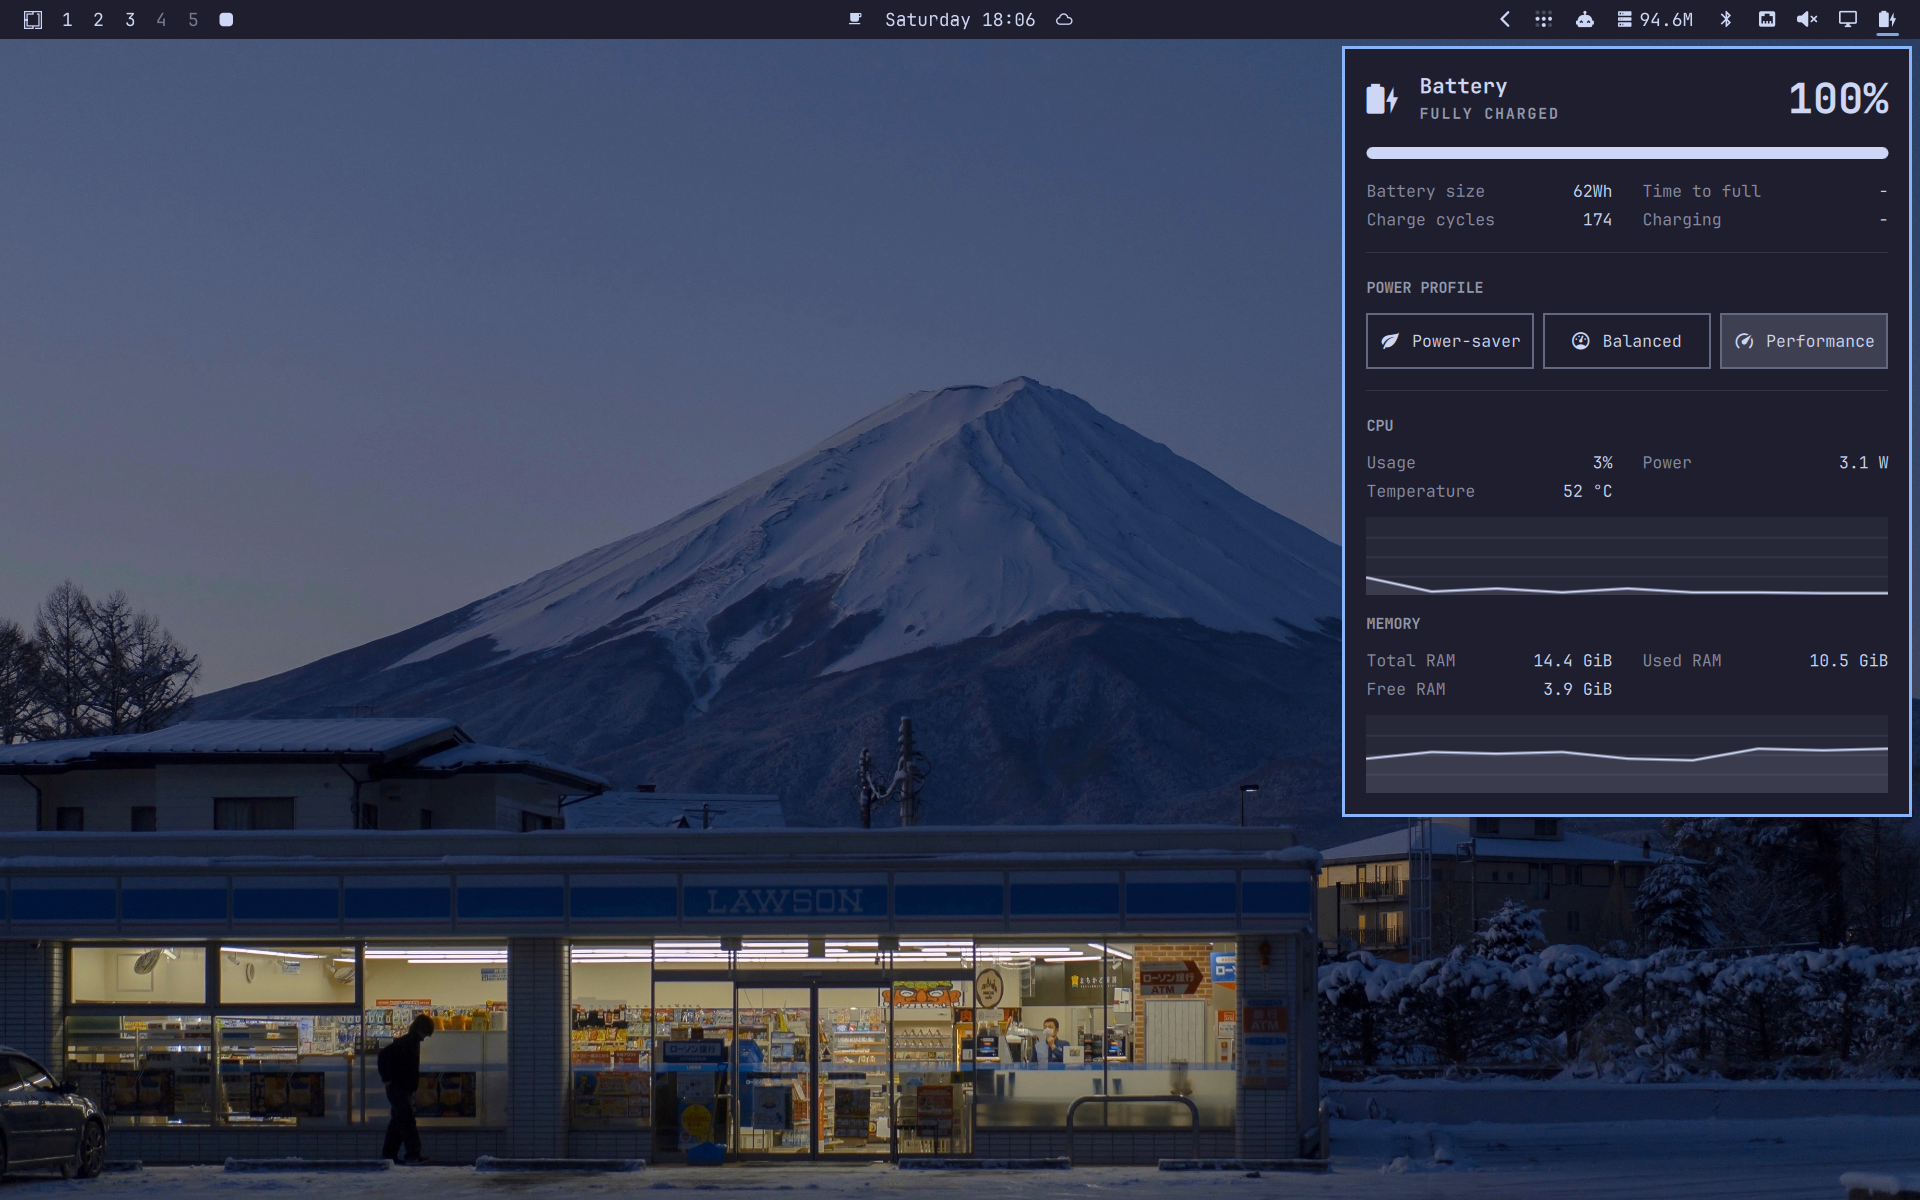
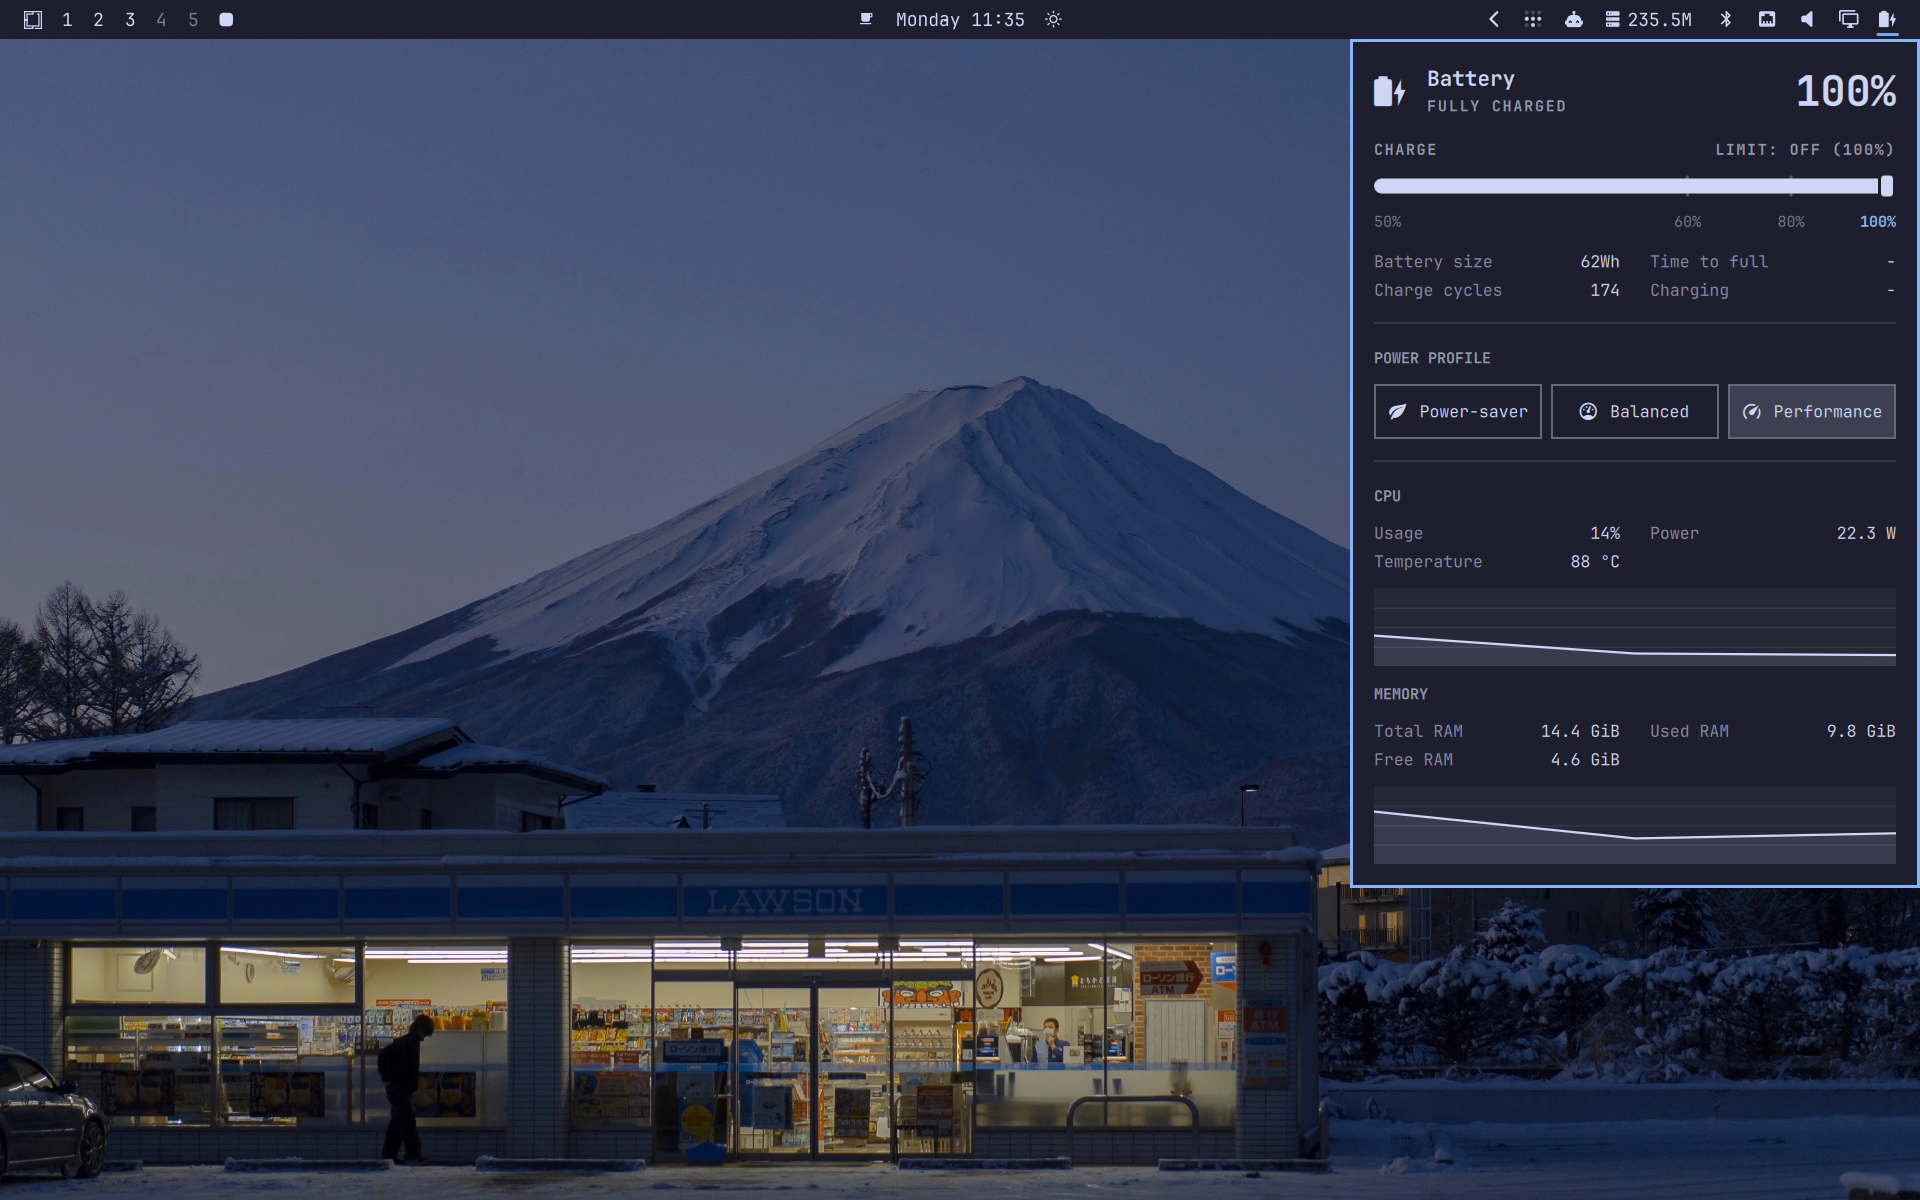
feat(battery): integrate interactive charging limiter slider into battery progress bar

diff --git a/Panel.qml b/Panel.qml
@@ -9,7 +9,7 @@ import "Model.js" as Model
 Panel {
   id: root
   moduleName: "omarchy.power"
-  ipcTarget: "omarchy.power"
+  ipcTarget: "kinara.power"
 
   manageIpc: false
   property var batteryInfo: ({})
@@ -22,6 +22,9 @@ Panel {
   property string activeProfile: ""
   property int profileIndex: 0
   property bool cursorActive: false
+  property int chargeLimit: 100
+  property bool chargeLimitSupported: true
+  property int draggingLimit: -1
   readonly property bool showPercentage: setting("showPercentage", false) === true
 
   readonly property real openPanelIndicatorWidth: showPercentage && !button.vertical ? button.glyphPaintedWidth : 0
@@ -149,22 +152,22 @@ Panel {
 
     if (!batteryProc.running) {
       batteryProc.buffer = ""
-      batteryProc.lines = 0
+      batteryProc.bytesRead = 0
       batteryProc.running = true
     }
     if (!profilesProc.running) {
       profilesProc.buffer = ""
-      profilesProc.lines = 0
+      profilesProc.bytesRead = 0
       profilesProc.running = true
     }
     if (!systemProc.running) {
       systemProc.buffer = ""
-      systemProc.lines = 0
+      systemProc.bytesRead = 0
       systemProc.running = true
     }
     if (!hardwareProc.running) {
       hardwareProc.buffer = ""
-      hardwareProc.lines = 0
+      hardwareProc.bytesRead = 0
       hardwareProc.running = true
     }
     pollWatchdog.restart()
@@ -209,6 +212,21 @@ Panel {
     hardware = next
     cpuHistory = appendHistory(cpuHistory, String(next.cpu_percent || "0").replace("%", ""))
     memoryHistory = appendHistory(memoryHistory, next.ram_percent)
+    if (next.charge_limit !== undefined) {
+      root.chargeLimit = parseInt(next.charge_limit) || 100
+    }
+    if (next.charge_limit_supported !== undefined) {
+      root.chargeLimitSupported = (next.charge_limit_supported === "true")
+    }
+  }
+
+  function setChargeLimit(percent) {
+    var val = Math.max(50, Math.min(100, Math.round(percent)))
+    root.chargeLimit = val
+    if (actionProc.running) return
+    actionProc.command = ["/usr/bin/python3", "-I", root.hardwareScript, "--set-limit", String(val)]
+    actionProc.running = true
+    actionWatchdog.restart()
   }
 
   function setProfile(profile) {
@@ -224,7 +242,7 @@ Panel {
   }
 
   IpcHandler {
-    target: "omarchy.power"
+    target: root.ipcTarget
 
     function open() { root.open() }
     function close() { root.close() }
@@ -537,35 +555,198 @@ Panel {
           }
         }
 
-        Item {
+        Column {
           width: parent.width
-          implicitHeight: Style.space(8)
+          spacing: Style.space(6)
 
-          Rectangle {
-            id: barTrack
-            anchors.fill: parent
-            radius: height / 2
-            color: Qt.rgba(root.bar.foreground.r, root.bar.foreground.g, root.bar.foreground.b, 0.12)
+          Item {
+            width: parent.width
+            implicitHeight: Math.max(chargeLeftLabel.implicitHeight, chargeRightLabel.implicitHeight)
+            visible: root.chargeLimitSupported
+
+            Text {
+              id: chargeLeftLabel
+              anchors.left: parent.left
+              text: "CHARGE"
+              color: Qt.darker(root.bar.foreground, 1.4)
+              font.family: root.bar.fontFamily
+              font.pixelSize: Style.font.caption
+              font.bold: true
+              font.letterSpacing: 1.1
+            }
+
+            Text {
+              id: chargeRightLabel
+              anchors.right: parent.right
+              text: root.draggingLimit >= 0
+                ? (root.draggingLimit >= 100 ? "SET: 100% (OFF)" : "SET LIMIT: " + root.draggingLimit + "%")
+                : (root.chargeLimit < 100 ? "LIMIT: " + root.chargeLimit + "%" : "LIMIT: OFF (100%)")
+              color: (root.draggingLimit >= 0 || root.chargeLimit < 100) ? Color.accent : Qt.darker(root.bar.foreground, 1.4)
+              font.family: root.bar.fontFamily
+              font.pixelSize: Style.font.caption
+              font.bold: true
+              font.letterSpacing: 1.1
+            }
           }
 
-          Rectangle {
-            id: barFill
-            anchors.left: barTrack.left
-            anchors.verticalCenter: barTrack.verticalCenter
-            height: barTrack.height
-            radius: barTrack.radius
-            color: root.batteryFillColor
-            width: Math.max(barTrack.height, barTrack.width * root.batteryFraction)
+          Item {
+            id: sliderContainer
+            width: parent.width
+            implicitHeight: Style.space(22)
 
-            Behavior on width { NumberAnimation { duration: 320; easing.type: Easing.OutCubic } }
-            Behavior on color { ColorAnimation { duration: 220 } }
+            Rectangle {
+              id: barTrack
+              anchors.left: parent.left
+              anchors.right: parent.right
+              anchors.verticalCenter: parent.verticalCenter
+              height: Style.space(10)
+              radius: height / 2
+              color: Qt.rgba(root.bar.foreground.r, root.bar.foreground.g, root.bar.foreground.b, 0.12)
+            }
 
-            SequentialAnimation on opacity {
-              running: root.charging && !root.fullyCharged && root.opened
-              loops: Animation.Infinite
-              alwaysRunToEnd: true
-              NumberAnimation { from: 1.0; to: 0.55; duration: 950; easing.type: Easing.InOutSine }
-              NumberAnimation { from: 0.55; to: 1.0; duration: 950; easing.type: Easing.InOutSine }
+            Rectangle {
+              id: barFill
+              anchors.left: barTrack.left
+              anchors.verticalCenter: barTrack.verticalCenter
+              height: barTrack.height
+              radius: barTrack.radius
+              color: root.batteryFillColor
+              width: Math.max(barTrack.height, Math.min(barTrack.width, barTrack.width * root.batteryFraction))
+
+              Behavior on width { NumberAnimation { duration: 320; easing.type: Easing.OutCubic } }
+              Behavior on color { ColorAnimation { duration: 220 } }
+
+              SequentialAnimation on opacity {
+                running: root.charging && !root.fullyCharged && root.opened
+                loops: Animation.Infinite
+                alwaysRunToEnd: true
+                NumberAnimation { from: 1.0; to: 0.55; duration: 950; easing.type: Easing.InOutSine }
+                NumberAnimation { from: 0.55; to: 1.0; duration: 950; easing.type: Easing.InOutSine }
+              }
+            }
+
+            Repeater {
+              model: [60, 80]
+              Rectangle {
+                required property int modelData
+                width: Math.max(1, Style.space(1.5))
+                height: barTrack.height + Style.space(4)
+                radius: 1
+                color: Qt.rgba(root.bar.foreground.r, root.bar.foreground.g, root.bar.foreground.b, 0.3)
+                anchors.verticalCenter: barTrack.verticalCenter
+                x: Math.round(barTrack.width * (modelData / 100.0) - width / 2)
+              }
+            }
+
+            Rectangle {
+              id: limiterKnob
+              visible: root.chargeLimitSupported
+              readonly property real effectivePercent: root.draggingLimit >= 0 ? root.draggingLimit : root.chargeLimit
+              readonly property real posFraction: Math.max(0.5, Math.min(1.0, effectivePercent / 100.0))
+              width: Style.space(12)
+              height: Style.space(18)
+              radius: Style.space(4)
+              color: root.bar.foreground
+              border.color: root.bar.background
+              border.width: Math.max(1, Style.space(1.5))
+              anchors.verticalCenter: barTrack.verticalCenter
+              x: Math.max(0, Math.min(barTrack.width - width, barTrack.width * posFraction - width / 2))
+              scale: sliderMouse.containsMouse || root.draggingLimit >= 0 ? 1.15 : 1.0
+
+              Behavior on x {
+                enabled: root.draggingLimit < 0
+                NumberAnimation { duration: 160; easing.type: Easing.OutCubic }
+              }
+              Behavior on scale {
+                NumberAnimation { duration: 110; easing.type: Easing.OutCubic }
+              }
+            }
+
+            MouseArea {
+              id: sliderMouse
+              anchors.fill: parent
+              hoverEnabled: true
+              cursorShape: Qt.PointingHandCursor
+              acceptedButtons: Qt.LeftButton | Qt.RightButton
+
+              function calculatePercent(mouseX) {
+                var frac = Math.max(0, Math.min(1, mouseX / barTrack.width))
+                var raw = Math.round(frac * 100)
+                if (Math.abs(raw - 60) <= 3) raw = 60
+                else if (Math.abs(raw - 80) <= 3) raw = 80
+                else if (raw >= 97) raw = 100
+                return Math.max(50, Math.min(100, raw))
+              }
+
+              onPressed: function(mouse) {
+                if (mouse.button === Qt.RightButton) {
+                  var nextLimit = root.chargeLimit < 100 ? 100 : 80
+                  root.setChargeLimit(nextLimit)
+                  return
+                }
+                root.draggingLimit = calculatePercent(mouse.x)
+              }
+
+              onPositionChanged: function(mouse) {
+                if (root.draggingLimit >= 0) {
+                  root.draggingLimit = calculatePercent(mouse.x)
+                }
+              }
+
+              onReleased: function(mouse) {
+                if (mouse.button !== Qt.LeftButton) return
+                if (root.draggingLimit >= 0) {
+                  root.setChargeLimit(root.draggingLimit)
+                  root.draggingLimit = -1
+                }
+              }
+
+              onWheel: function(wheel) {
+                var delta = wheel.angleDelta.y > 0 ? 5 : -5
+                var next = Math.max(50, Math.min(100, root.chargeLimit + delta))
+                root.setChargeLimit(next)
+              }
+            }
+          }
+
+          Item {
+            width: parent.width
+            implicitHeight: Style.font.caption + Style.space(2)
+            visible: root.chargeLimitSupported
+
+            Text {
+              anchors.left: parent.left
+              text: "50%"
+              color: Qt.darker(root.bar.foreground, 1.8)
+              font.family: root.bar.fontFamily
+              font.pixelSize: Style.font.caption
+            }
+
+            Text {
+              x: Math.round(parent.width * 0.6 - width / 2)
+              text: "60%"
+              color: root.chargeLimit === 60 ? Color.accent : Qt.darker(root.bar.foreground, 1.8)
+              font.family: root.bar.fontFamily
+              font.pixelSize: Style.font.caption
+              font.bold: root.chargeLimit === 60
+            }
+
+            Text {
+              x: Math.round(parent.width * 0.8 - width / 2)
+              text: "80%"
+              color: root.chargeLimit === 80 ? Color.accent : Qt.darker(root.bar.foreground, 1.8)
+              font.family: root.bar.fontFamily
+              font.pixelSize: Style.font.caption
+              font.bold: root.chargeLimit === 80
+            }
+
+            Text {
+              anchors.right: parent.right
+              text: "100%"
+              color: root.chargeLimit === 100 ? Color.accent : Qt.darker(root.bar.foreground, 1.8)
+              font.family: root.bar.fontFamily
+              font.pixelSize: Style.font.caption
+              font.bold: root.chargeLimit === 100
             }
           }
         }

diff --git a/README.md b/README.md
@@ -13,6 +13,7 @@ A high-performance Quickshell panel and top-bar widget for Omarchy Linux that ex
 The standard Omarchy battery widget only reports state of charge and power profile buttons. When tuning performance or diagnosing thermal throttling on laptops and handhelds, users had to launch external terminals running `btop` or `htop`.
 
 **Omarchy Power Monitor** replaces the stock widget with a complete system health HUD:
+- **Interactive Battery Limiter**: Configure and cap hardware battery charge thresholds directly from the slider on the battery bar (50%, 60%, 80% Safe mode, 100% Full charge).
 - **Instant System Pulse**: View battery charge percentage, charging rate, and power profile at a glance.
 - **CPU Telemetry**: Track real-time CPU load (`%`), package temperature (`°C`), and socket wattage (`W`).
 - **Memory Metrics**: Monitor Total RAM, Used RAM, and Free/Available RAM in GiB.
@@ -35,11 +36,21 @@ When clicked or triggered via IPC (`quickshell ipc call omarchy.power open`):
 | Section | Content | Behavior |
 | :--- | :--- | :--- |
 | **Hero Card** | Large battery icon, status phrase, charge percentage | Rotates status phrasing smoothly during charge/discharge. |
-| **Charge Bar** | Visual charge progress bar | Pulses gently while charging is active. |
+| **Charge Bar & Limiter** | Interactive charge level slider with limiter knob | Drag, click, scroll, or right-click to configure charge limit (50–100%). |
 | **Battery Details** | Time remaining, power draw, health condition | Only displays when battery hardware reports valid data. |
 | **Power Profiles** | Performance, Balanced, Power Saver buttons | Highlights active profile; clicks invoke `power-profiles-daemon`. |
 | **CPU Telemetry** | Load %, Temperature (°C), Package Power (W) | Live historical line graph, fixed 0–100% scale. |
 | **Memory Telemetry**| Total, Used, Available RAM (GiB), Used % | Dynamic auto-scaled line graph showing consumption trends. |
+
+---
+
+### Battery Charging Limiter Controls
+
+The battery bar functions as both a charge progress meter and an interactive hardware charge limiter:
+- **Click or Drag**: Move the slider knob or click anywhere along the track (50%–100%) to set the hardware charge ceiling. Common thresholds (60%, 80%, 100%) snap automatically.
+- **Right-Click**: Quickly toggles between battery preservation mode (80% Safe) and full charge (100% Max).
+- **Mouse Wheel**: Scroll up or down over the bar to step the limit by 5%.
+- **Hardware Integration**: Sets thresholds through native UPower D-Bus (unprivileged) or directly via `/sys/class/power_supply/BAT*/charge_control_end_threshold`.
 
 ---
 
@@ -155,6 +166,8 @@ ram_total=14.4 GiB
 ram_used=9.8 GiB
 ram_free=4.6 GiB
 ram_percent=68.1
+charge_limit=100
+charge_limit_supported=true
 ```
 
 Inspect Quickshell logs if the panel does not open:
